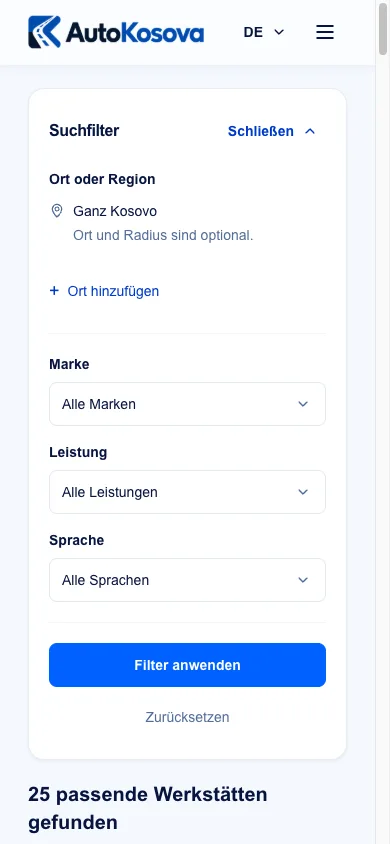
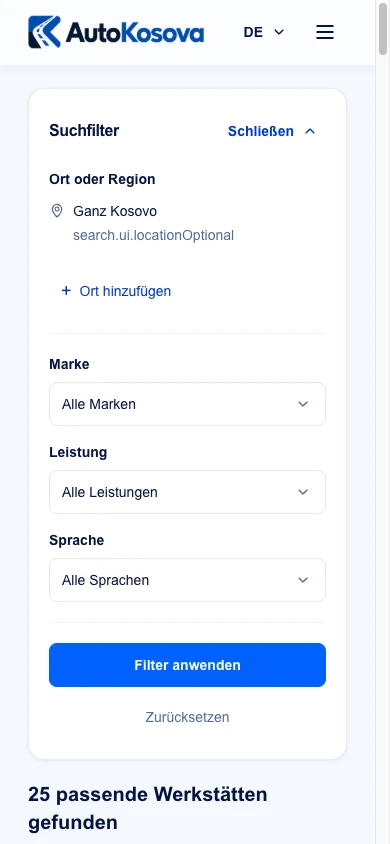
style: simplify the empty location filter (#43)

Changed region(s): [[0.1846, 0.2773, 0.5846, 0.3081], [0.1231, 0.3389, 0.4308, 0.3697], [0.6154, 0.2773, 0.6462, 0.3081]]

diff --git a/src/shared/search-copy.ts b/src/shared/search-copy.ts
@@ -21,7 +21,6 @@ export const searchCopy: Readonly<Record<AppLanguage, Readonly<Record<string, st
     'favorites.error': 'Favoriten konnten nicht aktualisiert werden. Bitte versuche es erneut.',
 
     'search.ui.allLocations': 'Ganz Kosovo',
-    'search.ui.locationOptional': 'Ort und Radius sind optional.',
     'search.ui.chooseLocation': 'Ort auswählen',
     'search.ui.addFirstArea': 'Ort hinzufügen',
     'search.ui.allMakes': 'Alle Marken',
@@ -76,7 +75,6 @@ export const searchCopy: Readonly<Record<AppLanguage, Readonly<Record<string, st
     'favorites.error': 'Të preferuarat nuk u përditësuan. Provo përsëri.',
 
     'search.ui.allLocations': 'Gjithë Kosova',
-    'search.ui.locationOptional': 'Vendi dhe rrezja janë opsionale.',
     'search.ui.chooseLocation': 'Zgjidh vendin',
     'search.ui.addFirstArea': 'Shto vend',
     'search.ui.allMakes': 'Të gjitha markat',
@@ -131,7 +129,6 @@ export const searchCopy: Readonly<Record<AppLanguage, Readonly<Record<string, st
     'favorites.error': 'Favorites could not be updated. Please try again.',
 
     'search.ui.allLocations': 'All of Kosovo',
-    'search.ui.locationOptional': 'Location and radius are optional.',
     'search.ui.chooseLocation': 'Choose a location',
     'search.ui.addFirstArea': 'Add location',
     'search.ui.allMakes': 'All makes',

diff --git a/src/app/search-handoff.component.ts b/src/app/search-handoff.component.ts
@@ -139,9 +139,6 @@ interface Area {
                       <app-icon name="pin" class="mt-0.5 size-4 text-muted" />
                       <div>
                         <p class="font-medium">{{ ui('search.ui.allLocations') }}</p>
-                        <p class="mt-1 leading-5 text-muted">
-                          {{ ui('search.ui.locationOptional') }}
-                        </p>
                       </div>
                     </div>
                   }

diff --git a/docs/design/evidence/issue-43/README.md b/docs/design/evidence/issue-43/README.md
@@ -83,7 +83,7 @@ Der zusätzliche Chip „Unternehmensdaten geprüft“ entfällt. Die Prüfung e
 
 Die Suche beginnt direkt mit Filter und Ergebnissen. Bild-Hero, Hero-Suchfeld, Vorteilsblöcke und sichtbare Seitenüberschrift entfallen nach der letzten Nutzerentscheidung. Die semantische H1 bleibt für Screenreader erhalten. [Desktop](search-results-1448.webp), [Mobil 390](search-results-390.webp), [Mobil 360](search-results-360.webp).
 
-Ohne gesetzten Ortsfilter bleibt die Ortsauswahl leer: „Ganz Kosovo“ und „Ort und Radius sind optional“. Marke, Leistung und Sprache gelten auch für die globale Suche. Die Reihenfolge ist Marke, Leistung, Sprache. Der Filter bleibt nach dem Scrollen bei y=80 unter der 64 px hohen Navbar, bei Bedarf mit internem Scrollbereich.
+Ohne gesetzten Ortsfilter bleibt die Ortsauswahl leer: „Ganz Kosovo“. Marke, Leistung und Sprache gelten auch für die globale Suche. Die Reihenfolge ist Marke, Leistung, Sprache. Der Filter bleibt nach dem Scrollen bei y=80 unter der 64 px hohen Navbar, bei Bedarf mit internem Scrollbereich.
 
 Migration 019 speichert private Favoriten im Konto. Angemeldete Navbar: [Desktop](account-navbar.webp), [Mobil](account-mobile.webp). [Bestätigter Favorit und fiktive Demo-Bewertung](favorite-card.webp). Sechs veröffentlichte fiktive Workflow-Bewertungen auf drei ausdrücklich als DEMO bezeichneten Profilen zeigen echte berechnete Mittelwerte und Anzahlen. `npm run test:demo-workflow-seed` wurde separat mit eigener lokaler DB erfolgreich ausgeführt.
 
